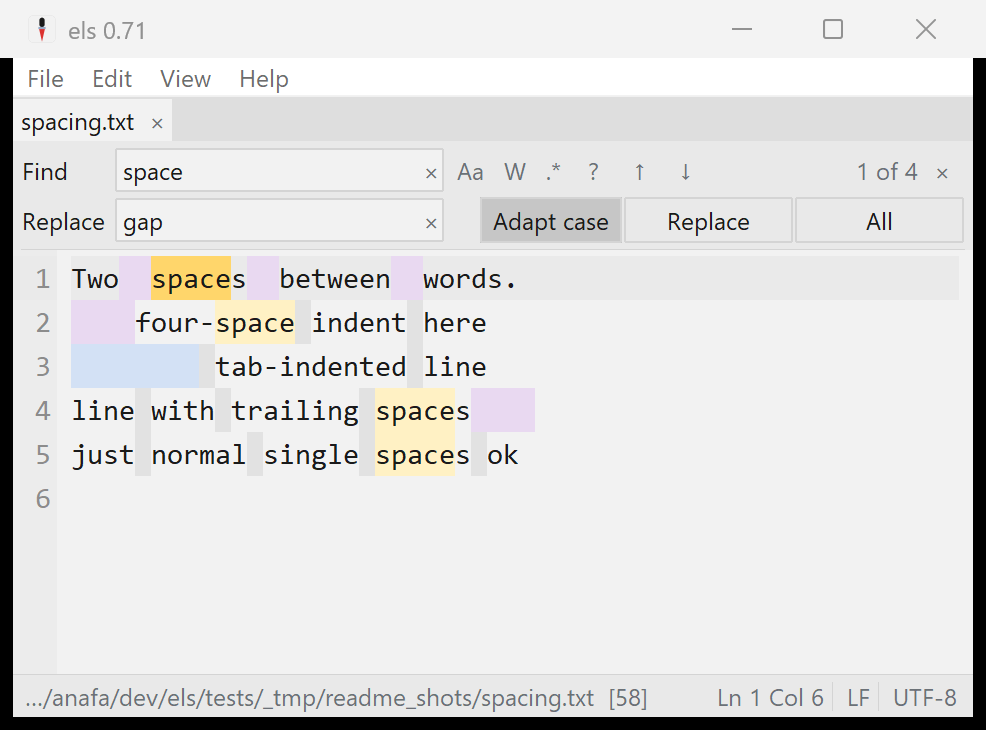
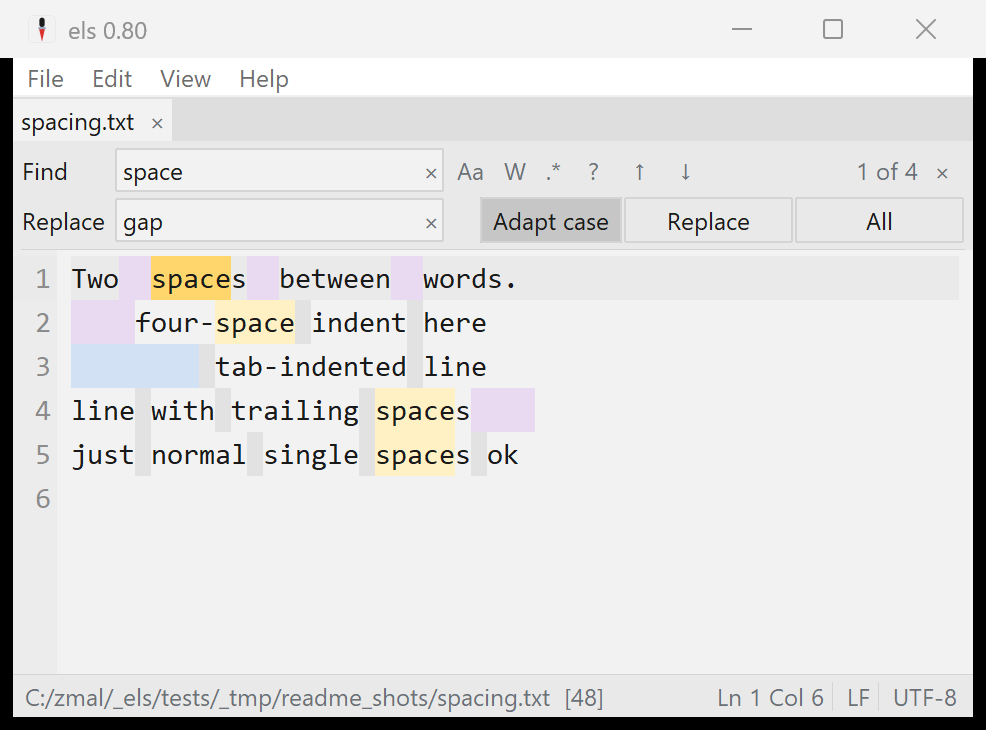
docs: refresh screenshots for 0.80 + add a Focus Mode shot
Regenerate the README screenshots against the current 0.80 build (the title bars
now read "els 0.80") and add focus-mode.png: a short prose file with the caret on
one line, which stays ink-black while every other line dims to grey — the clearest
way to show what Focus Mode does.

The screenshot generator had gone stale after the move to zmal's shared runtime: it
still discovered a project-local .toolchain that no longer exists, so `z readme-shots`
failed outright. It now takes wish/tclsh from the z front door (passed in by the
task, mirroring `z shot`); twapi resolves through the inherited TCLLIBPATH. write_file
also emits UTF-8 instead of a raw binary channel, so non-ASCII scene text writes cleanly.

Changed region(s): [[0.0304, 0.9342, 0.6694, 0.9945], [0.1217, 0.0301, 0.1521, 0.0603]]

diff --git a/README.md b/README.md
@@ -176,6 +176,8 @@ accident recoverable anyway.
 
 ![Find and replace with visible whitespace](docs/img/find-whitespace.png)
 
+![Focus Mode dimming every line but the one under the caret](docs/img/focus-mode.png)
+
 ## Requirements & limitations
 
 Stated plainly so you know before you rely on it:
